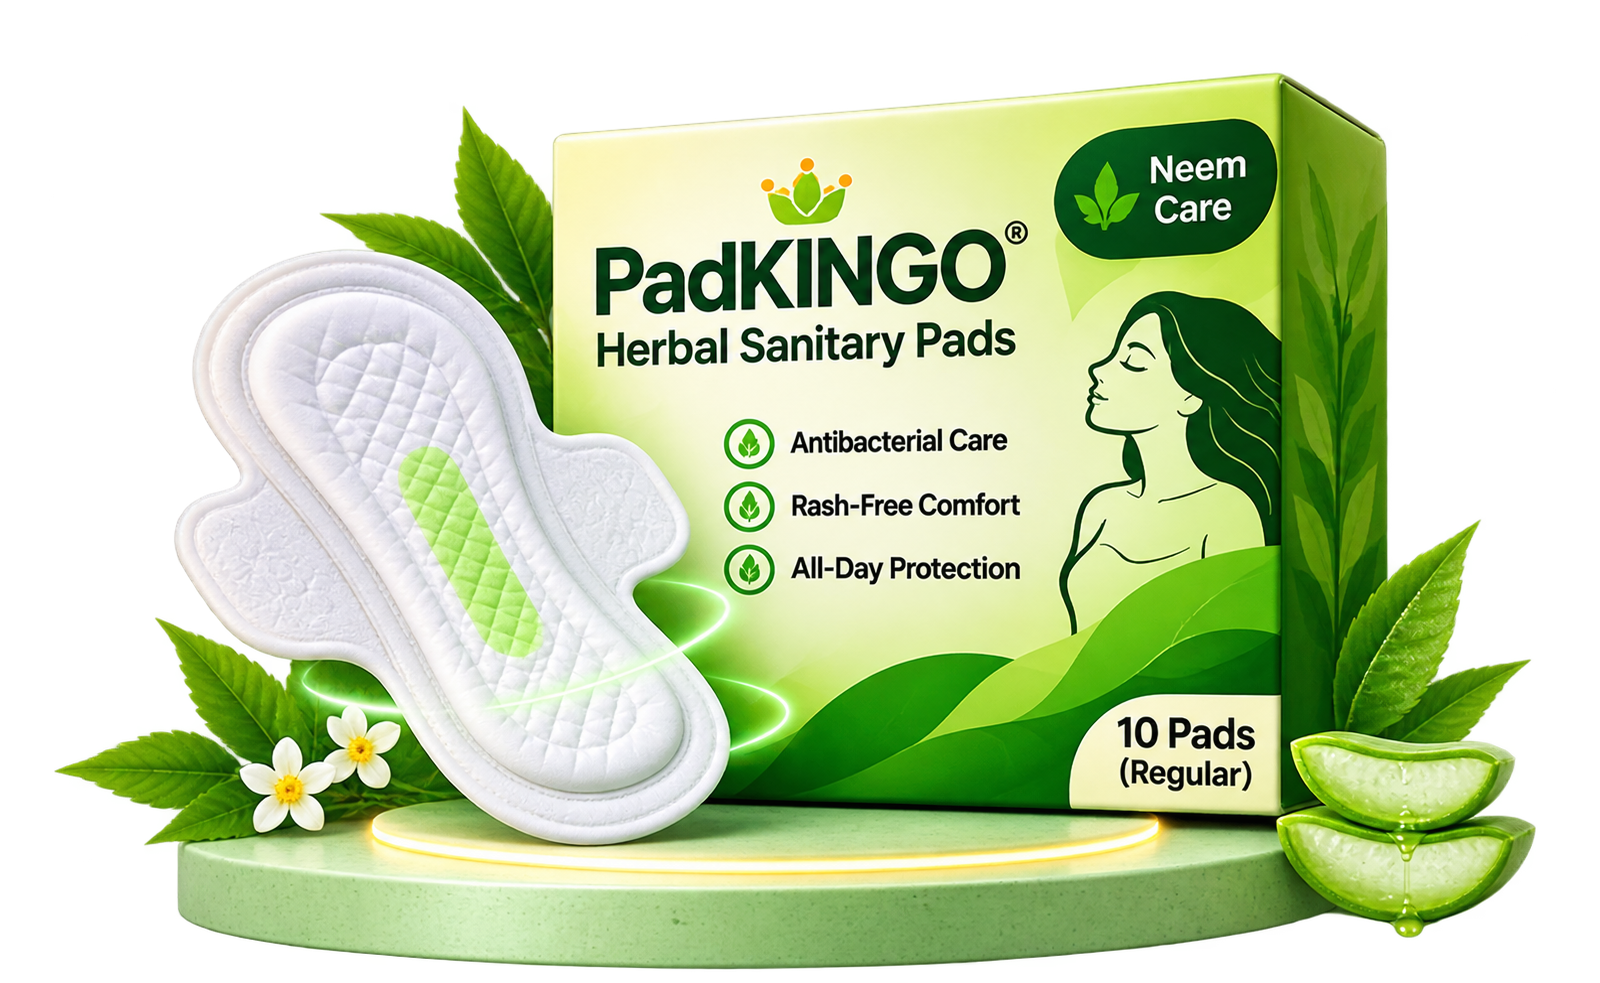
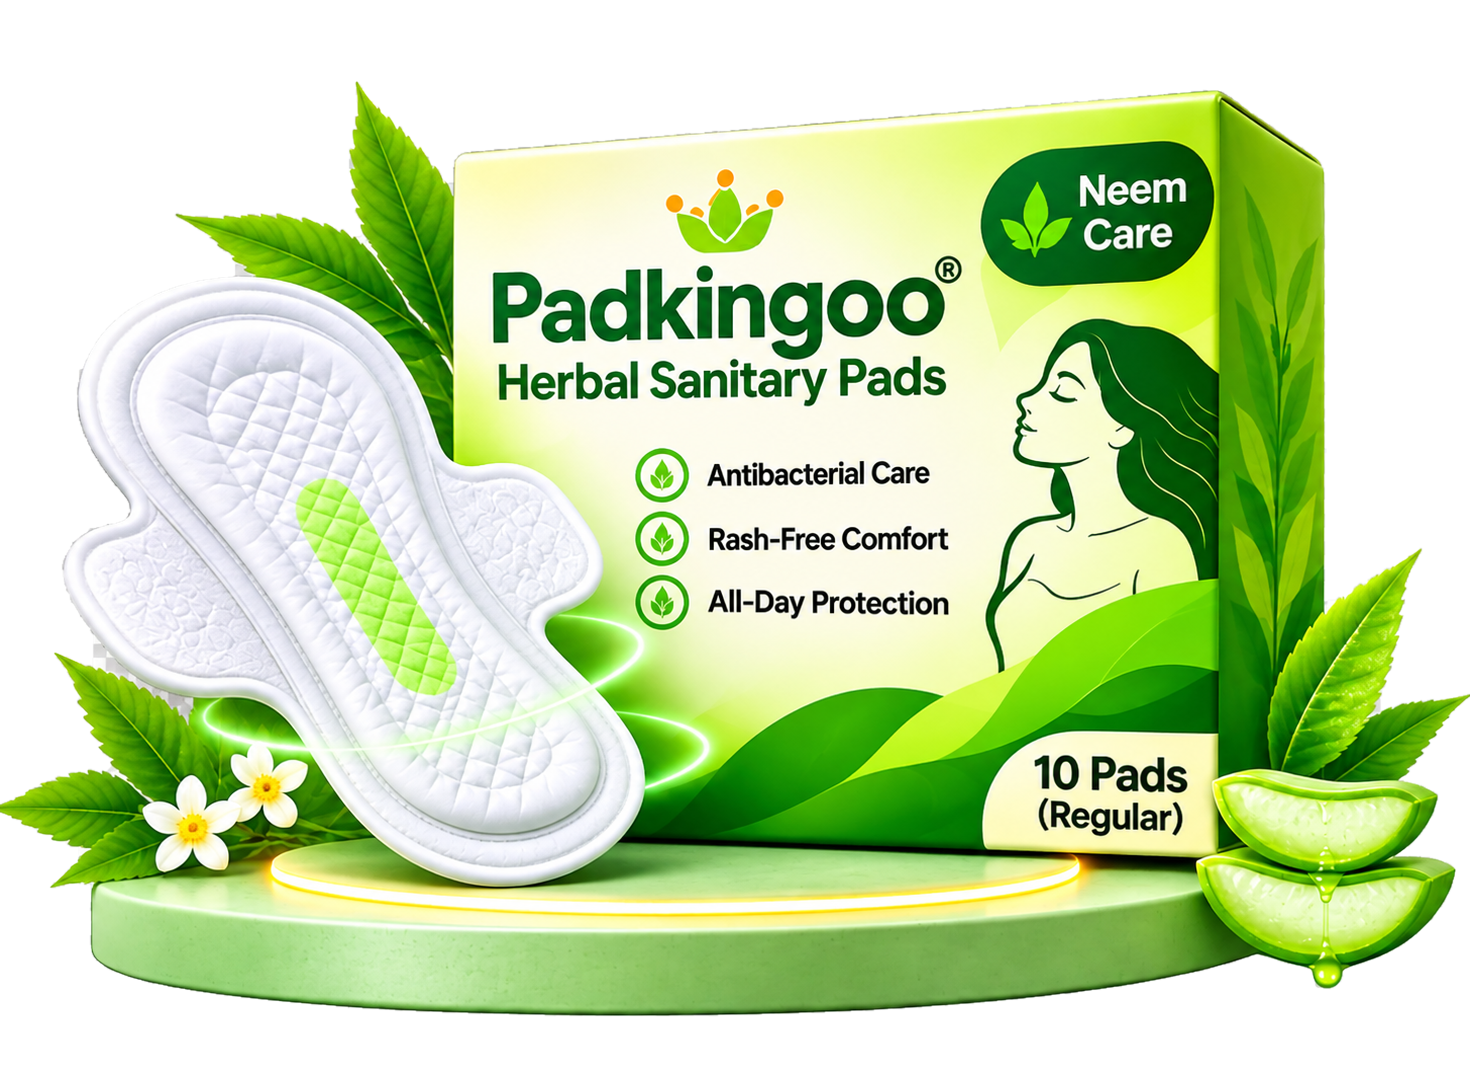
new changes

diff --git a/src/components/Footer.jsx b/src/components/Footer.jsx
@@ -1,13 +1,13 @@
 import { Mail, Phone, Heart } from "lucide-react";
 import { FaInstagram, FaFacebookF, FaYoutube } from "react-icons/fa";
-import logo from "../assets/PadKINGO Herbal Care Logo.png";
+import logo from "../assets/PadKINGO Herbal Care Packagdding.png";
 
 const footerLinks = {
   "Quick Links": [
     { name: "Home", link: "#home" },
     { name: "Our Products", link: "#products" },
     { name: "Our Flavours", link: "#flavours" },
-    { name: "Why PadKINGO", link: "#benefits" },
+    { name: "Why PadKINGOO", link: "#benefits" },
     { name: "Customer Survey", link: "#survey" },
   ],
   "Our Products": [
@@ -41,14 +41,14 @@ export default function Footer() {
             <a href="#home" className="inline-block">
               <img
                 src={logo}
-                alt="PadKINGO Herbal Care"
+                alt="PadKINGOO  Herbal Care"
                 className="h-12 w-auto max-w-[170px] object-contain rounded-md bg-white p-1"
               />
             </a>
 
             <p className="mt-3 max-w-[280px] text-sm leading-6 text-green-100/70">
               Nature-inspired care and comfort for every period. Discover
-              everyday period care with PadKINGO.
+              everyday period care with PadKINGOO .
             </p>
 
             <div className="mt-4 flex gap-2.5">
@@ -92,11 +92,11 @@ export default function Footer() {
         <div className="mt-7 flex flex-col gap-3 border-t border-white/10 pt-5 sm:flex-row sm:items-center sm:justify-between">
           <div className="flex flex-wrap items-center gap-x-5 gap-y-2">
             <a
-              href="mailto:hello@padkingo.com"
+              href="mailto:hello@PadKINGOO.com"
               className="flex items-center gap-2 text-xs text-green-100/70 hover:text-white"
             >
               <Mail size={14} />
-              hello@padkingo.com
+              hello@PadKINGOO .com
             </a>
 
             <a
@@ -118,7 +118,7 @@ export default function Footer() {
         {/* Copyright */}
         <div className="mt-4 border-t border-white/10 pt-4 text-center">
           <p className="text-xs text-green-100/50">
-            © {new Date().getFullYear()} PadKINGO. All Rights Reserved.
+            © {new Date().getFullYear()} PadKINGOO. All Rights Reserved.
           </p>
         </div>
       </div>

diff --git a/src/components/FlavoursPage.jsx b/src/components/FlavoursPage.jsx
@@ -89,7 +89,7 @@ export default function FlavoursPage() {
           >
             <span className="inline-flex items-center gap-2 rounded-full border border-white/20 bg-white/10 px-5 py-2 text-xs font-bold uppercase tracking-[2px] text-[#C8F0A9]">
               <Leaf size={15} />
-              PadKINGO Herbal Collection
+              PadKINGOO Herbal Collection
             </span>
 
             <h1 className="mt-7 text-4xl font-extrabold leading-tight text-white sm:text-5xl lg:text-6xl">
@@ -100,7 +100,7 @@ export default function FlavoursPage() {
             </h1>
 
             <p className="mx-auto mt-6 max-w-2xl text-sm leading-8 text-green-100/80 sm:text-base">
-              Explore the PadKINGO collection inspired by nature,
+              Explore the PadKINGOO  collection inspired by nature,
               familiar botanical ingredients and refreshing floral themes.
             </p>
 
@@ -213,11 +213,11 @@ export default function FlavoursPage() {
             </div>
 
             <h2 className="mt-5 text-2xl font-extrabold text-white sm:text-3xl">
-              Nature Inspired. PadKINGO Care.
+              Nature Inspired. PadKINGOO Care.
             </h2>
 
             <p className="mx-auto mt-3 max-w-xl text-sm leading-7 text-green-100/75">
-              Explore the PadKINGO collection and discover
+              Explore the PadKINGOO collection and discover
               our range of herbal-inspired flavours.
             </p>
 

diff --git a/src/components/WhyPadKINGO.jsx b/src/components/WhyPadKINGO.jsx
@@ -61,7 +61,7 @@ const benefits = [
   },
 ];
 
-export default function WhyPadKINGO() {
+export default function WhyPadKINGOO() {
   return (
     <section
       id="benefits"
@@ -84,12 +84,12 @@ export default function WhyPadKINGO() {
         >
           <span className="inline-flex items-center gap-2 rounded-full border border-green-200 bg-white px-4 py-2 text-xs font-bold uppercase tracking-[1.5px] text-[#43843A] shadow-sm">
             <Leaf size={16} strokeWidth={2} />
-            The PadKINGO Difference
+            The PadKINGOO Difference
           </span>
 
           <h2 className="mt-5 text-3xl font-extrabold leading-tight text-[#173D25] sm:text-4xl lg:text-5xl">
             Why Choose
-            <span className="text-[#69A849]"> PadKINGO?</span>
+            <span className="text-[#69A849]"> PadKINGOO?</span>
           </h2>
 
           <p className="mx-auto mt-4 max-w-2xl text-sm leading-7 text-gray-600 sm:text-base">
@@ -180,7 +180,7 @@ export default function WhyPadKINGO() {
 
             <p className="mx-auto mt-4 max-w-xl text-sm leading-7 text-green-100/75 sm:text-base">
               Feel confident, stay informed, and make personal care
-              choices that work for you. PadKINGO is here to support
+              choices that work for you. PadKINGOO is here to support
               your everyday care journey.
             </p>
 

diff --git a/src/components/Hero.jsx b/src/components/Hero.jsx
@@ -53,7 +53,7 @@ export default function Hero() {
           </h1>
 
           <p className="mt-6 max-w-[470px] text-sm leading-7 text-[#34543A] sm:text-base">
-            PadKINGO – India's Herbal Sanitary Pads with Nature's Care, Modern
+            PadKINGOO – India's Herbal Sanitary Pads with Nature's Care, Modern
             Protection and Lasting Freshness.
           </p>
 
@@ -113,7 +113,7 @@ export default function Hero() {
 
           <motion.img
             src={heroDisplay}
-            alt="PadKINGO Herbal Sanitary Pads"
+            alt="PadKINGOO Herbal Sanitary Pads"
             animate={{ y: [0, -12, 0] }}
             transition={{ duration: 5, repeat: Infinity, ease: "easeInOut" }}
             className="relative z-10 mx-auto max-h-[530px] w-full object-contain drop-shadow-[0_25px_25px_rgba(25,90,35,0.2)]"

diff --git a/src/components/Survey.jsx b/src/components/Survey.jsx
@@ -80,7 +80,7 @@ const questions = [
   },
   {
     id: "rating",
-    title: "How do you like PadKINGO?",
+    title: "How do you like PadKINGOO?",
     subtitle: "Rate our brand and product concept.",
     type: "rating",
   },
@@ -130,7 +130,7 @@ export default function Survey() {
     if (step < questions.length - 1) {
       setStep((prev) => prev + 1);
     } else {
-      console.log("PadKINGO Survey:", answers);
+      console.log("PadKINGOO Survey:", answers);
       // Connect backend API here.
       setSubmitted(true);
     }
@@ -180,7 +180,7 @@ export default function Survey() {
             </h3>
 
             <p className="mt-3 text-sm text-green-800/60">
-              Your feedback means a lot to PadKINGO.
+              Your feedback means a lot to PadKINGOO.
             </p>
 
             <button

diff --git a/index.html b/index.html
@@ -3,7 +3,7 @@
   <head>
     <meta charset="UTF-8" />
     <meta name="viewport" content="width=device-width, initial-scale=1.0" />
-    <title>SheCare – Period Care for Every Woman</title>
+    <title>PadKINGOO – Herbal Period Care Products</title>
     <link rel="preconnect" href="https://fonts.googleapis.com" />
     <link href="https://fonts.googleapis.com/css2?family=Poppins:wght@400;500;600;700;800&display=swap" rel="stylesheet" />
   </head>

diff --git a/src/App.jsx b/src/App.jsx
@@ -66,7 +66,7 @@ export default function App() {
 
         {/* WHY PADKINGO PAGE */}
         <Route
-          path="/why-padkingo"
+          path="/why-padkingoo"
           element={<WhyChooseUs />}
         />
 

diff --git a/src/components/Navbar.jsx b/src/components/Navbar.jsx
@@ -35,8 +35,8 @@ const navItems = [
     ],
   },
   {
-    label: "Why PadKINGO",
-    href: "/why-padkingo",
+    label: "Why PadKINGOO",
+    href: "/why-padkingoo",
   },
   {
     label: "Learn",
